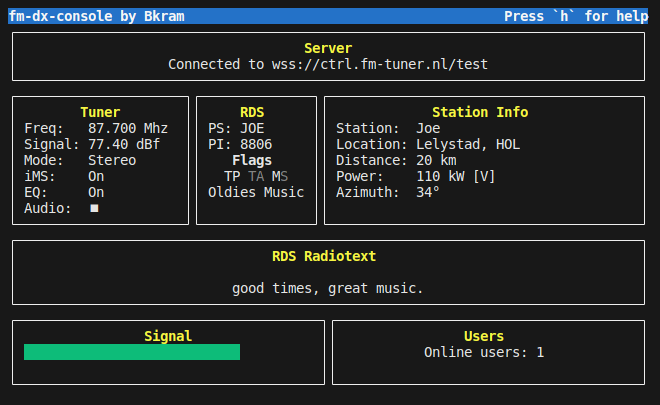
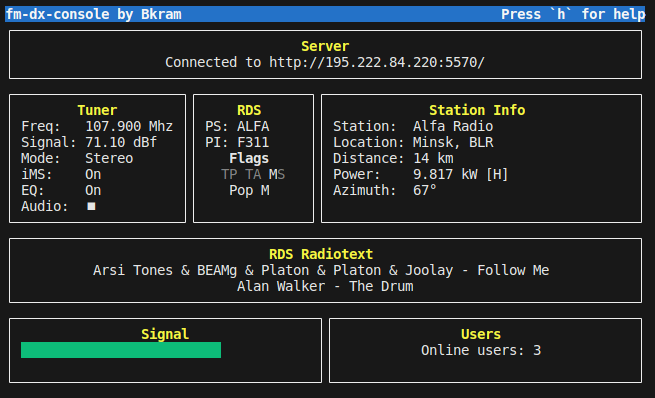
Show url with http in server connection not the derived websocket

diff --git a/fm-dx-console.js b/fm-dx-console.js
@@ -9,10 +9,14 @@ const { spawn } = require('child_process');
 const WebSocket = require('ws'); // WebSocket library for communication
 const argv = require('minimist')(process.argv.slice(2)); // Library for parsing command-line arguments
 
+let argUrl;
 // Check if required arguments are provided
 if (!argv.url) {
     console.error('Usage: node fm-dx-console.js --url <websocket_address>');
     process.exit(1);
+}
+else {
+    argUrl = argv.url;
 }
 
 // Global constants
@@ -40,6 +44,7 @@ websocketData = websocketAddress + '/text';
 
 // Prepare for audio streaming
 const playMP3FromWebSocket = require('./audiostream');
+const { url } = require('inspector');
 const player = playMP3FromWebSocket(websocketAudio, userAgent);
 
 // Create a Blessed screen
@@ -78,7 +83,7 @@ const serverBox = blessed.box({
     border: { type: 'line' },
     style: { fg: 'white', border: { fg: '#f0f0f0' } },
     content: `{center}{yellow-fg}{bold}Server{/bold}{/yellow-fg}\n` +
-        `Connected to ${websocketAddress}{/center}`
+        `Connected to ${argUrl}{/center}`
 });
 
 // Create a box to display main content

diff --git a/README.md b/README.md
@@ -30,16 +30,16 @@ mpg123 needs to be installed, and accessible in your path.
 
 ## Starting
 
-### Webserver on (http) use ws://
+### Webserver address must be used
 
 ```bash
-node fm-dx-console.js --url ws://fm-dx-server:8080 
+node fm-dx-console.js --url http://fm-dx-server
 ```
 
-### Webserver on (https) use wss://
+or
 
 ```bash
-node fm-dx-console.js --url wss://fm-dx-server
+node fm-dx-console.js --url https://fm-dx-server
 ```
 
 ## Help
